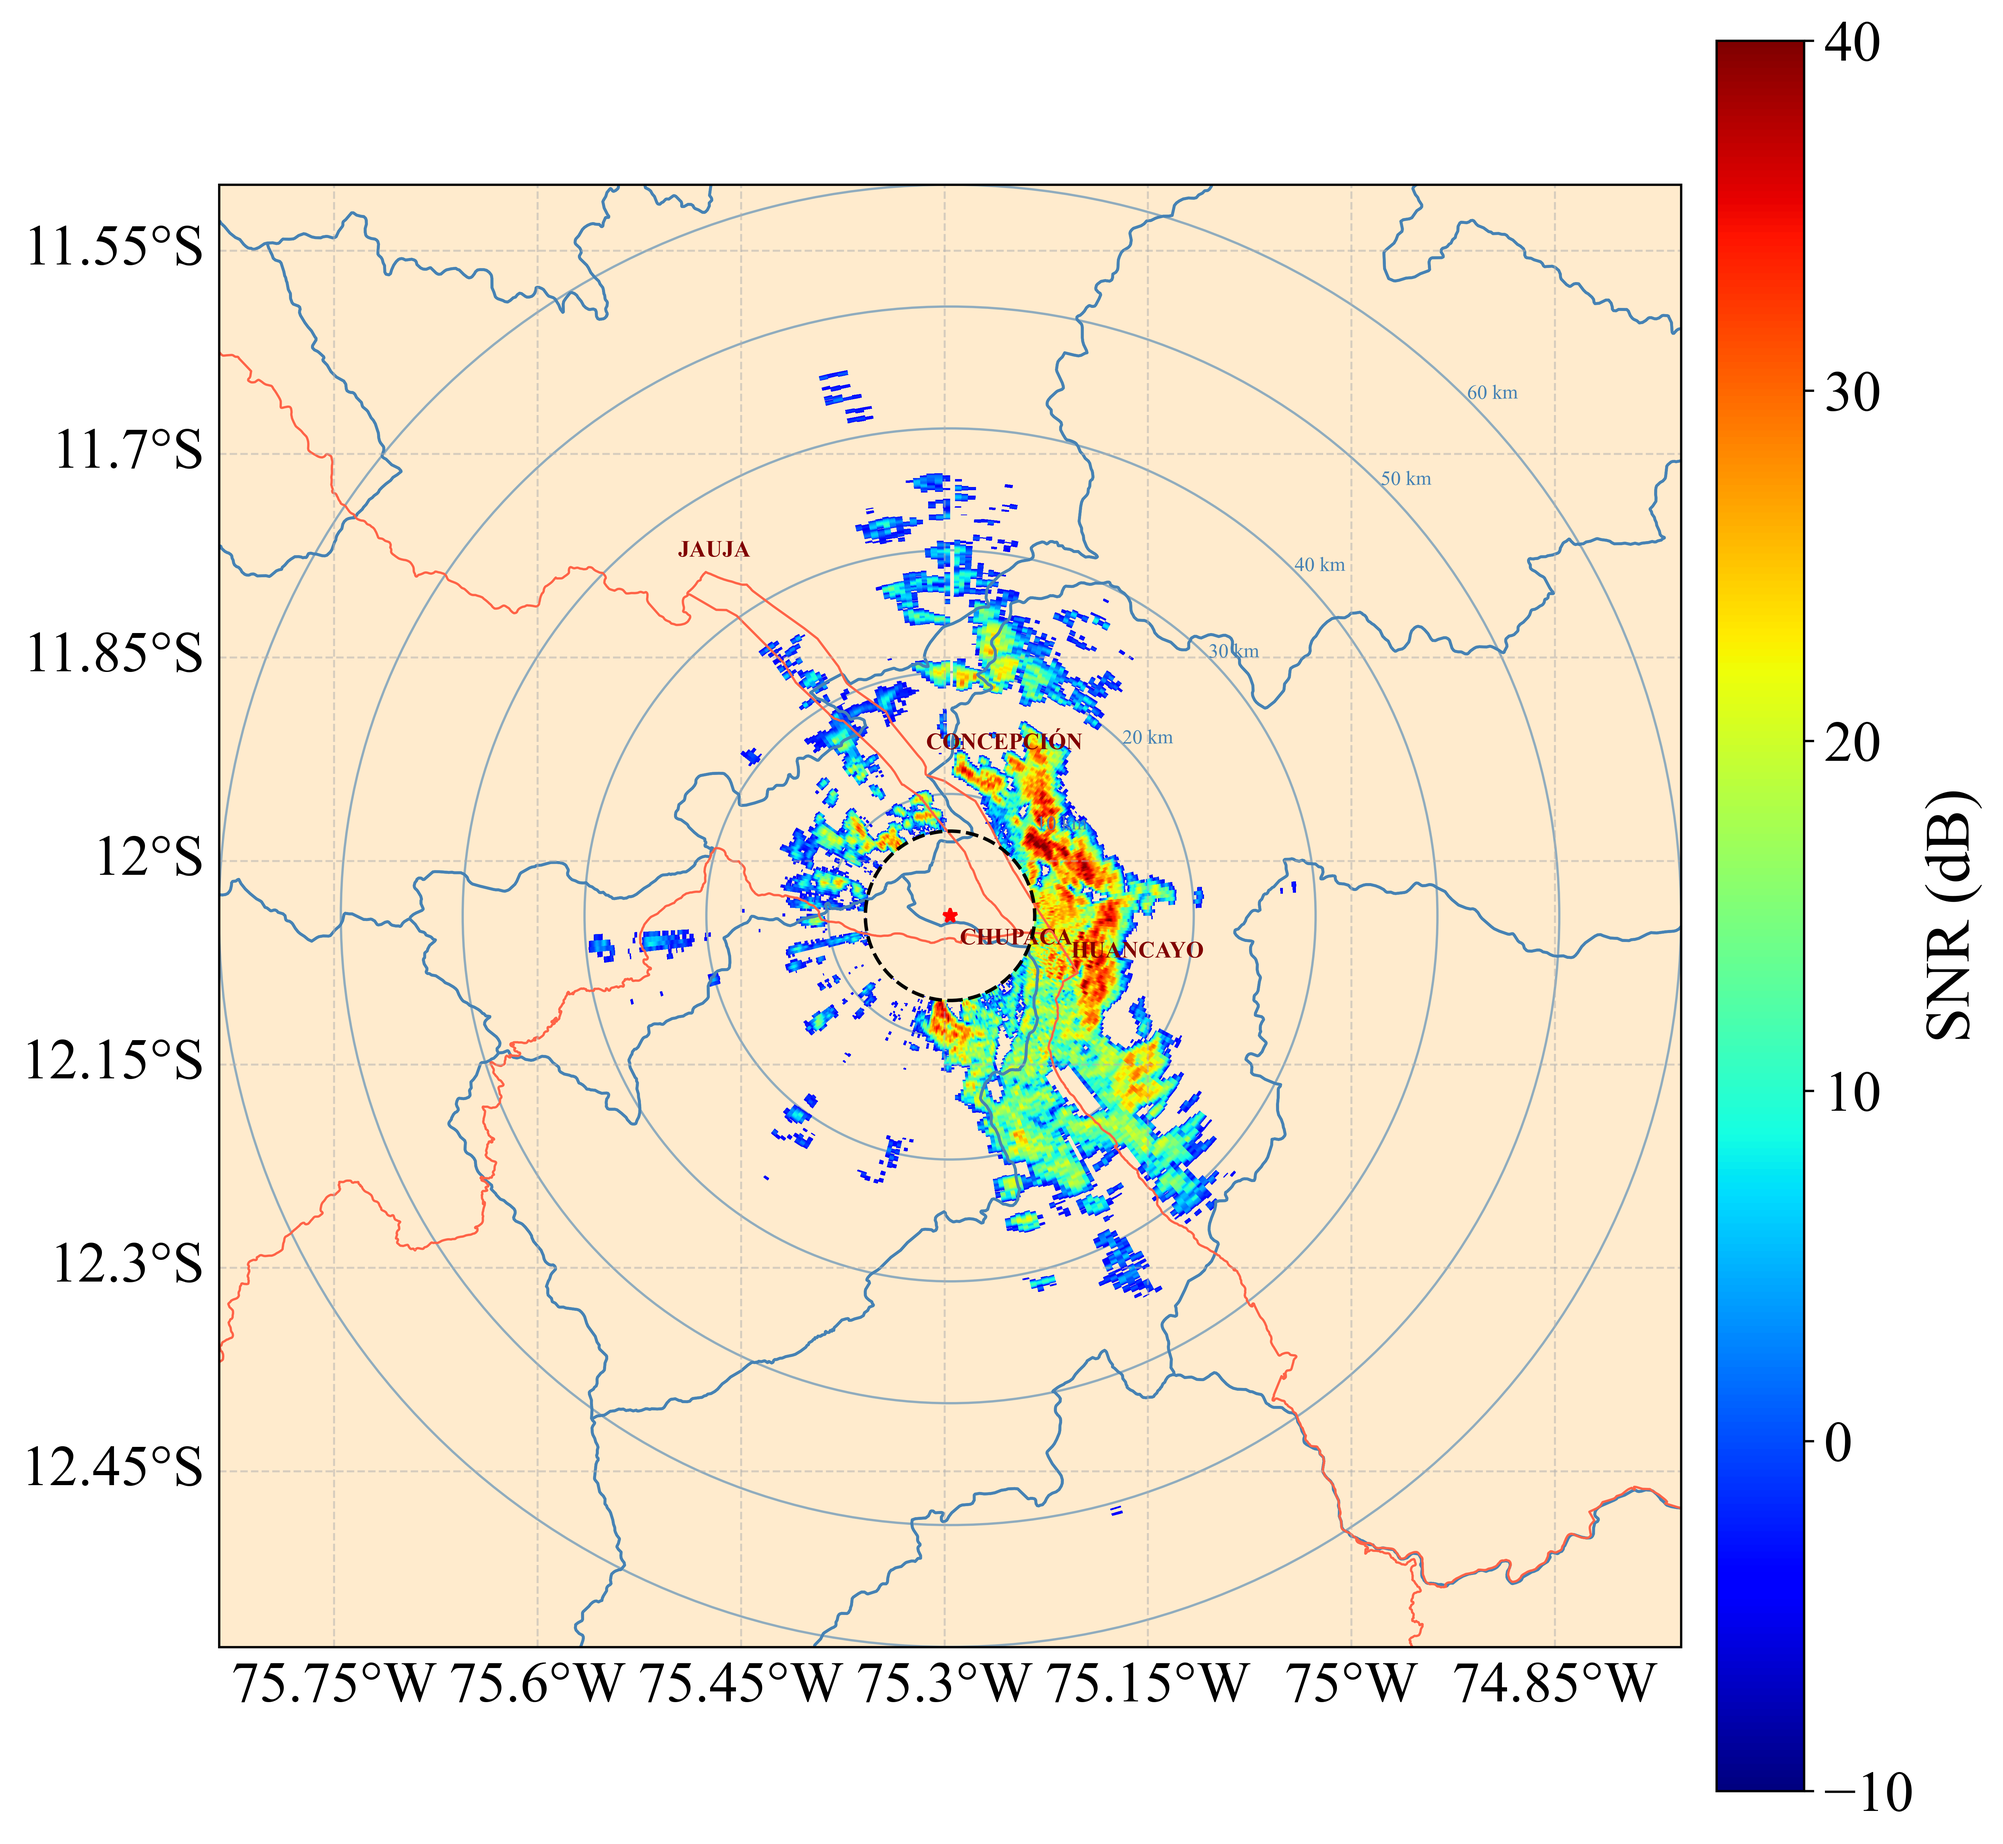
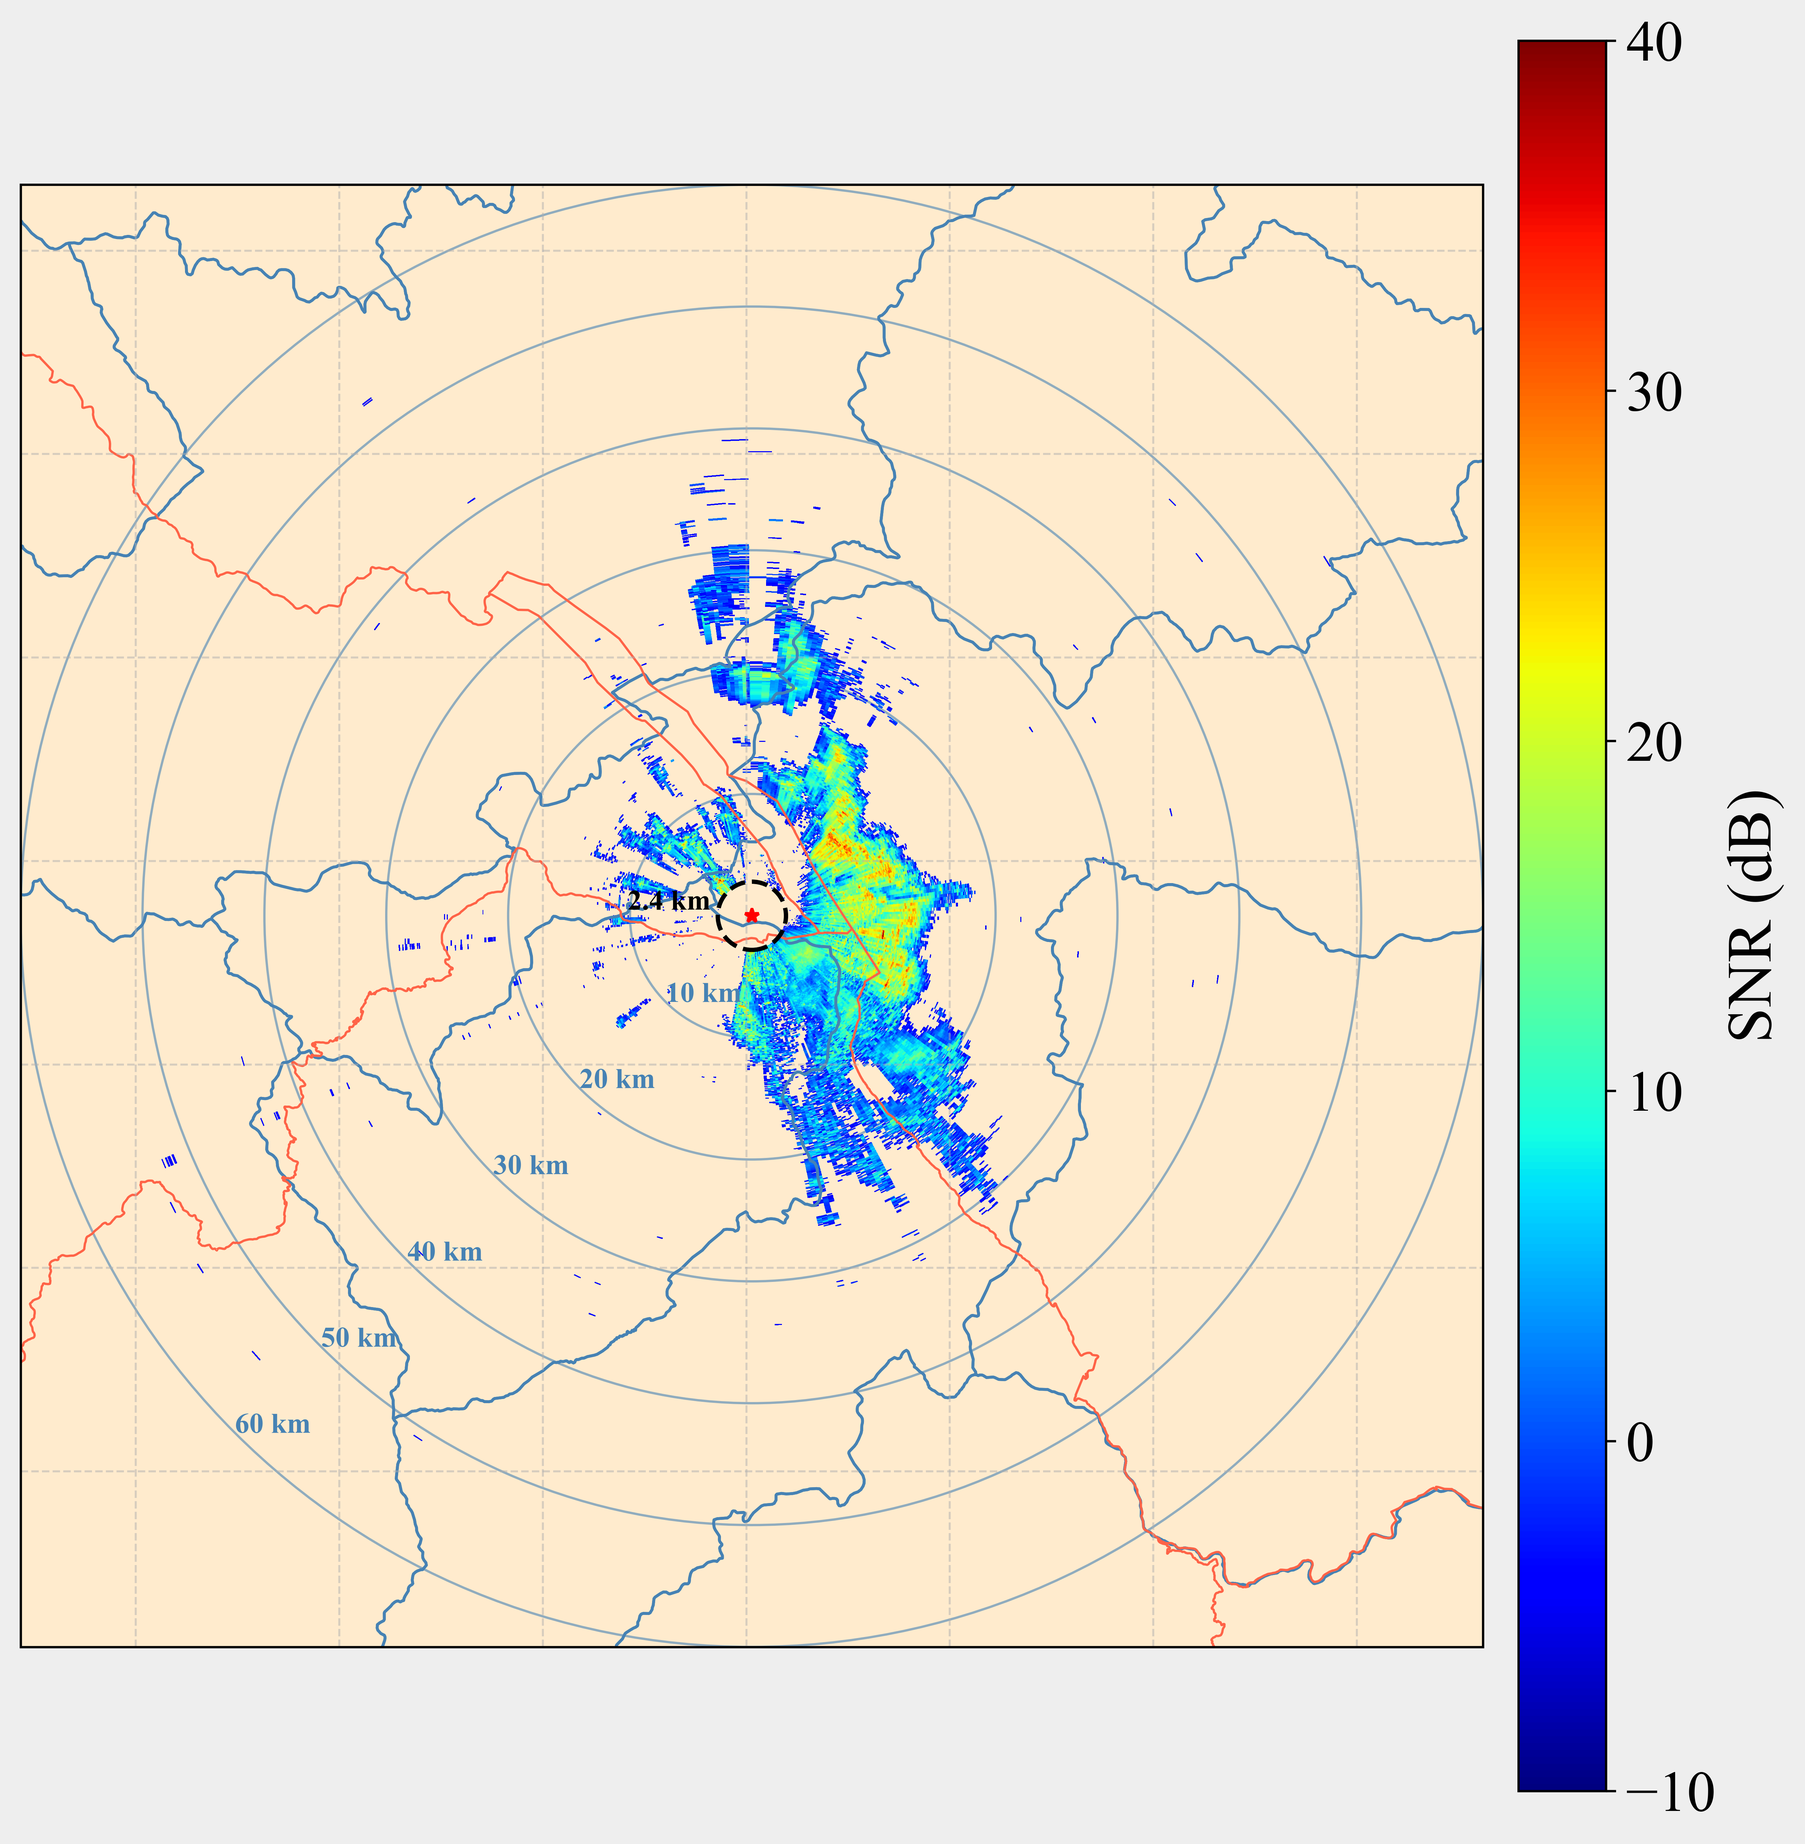
New changes in graphics for poster

diff --git a/scripts/ppi-2-v.py b/scripts/ppi-2-v.py
@@ -36,13 +36,13 @@ mpl.rcParams['font.size'] = 15
 RADAR_LAT = -12.04042
 RADAR_LON = -75.29591
 
-XRANGE = 60  # km
+XRANGE = 30  # km
 h0 = 37 # Para SNR índice para chirp 145, para cc 38
 
 SHOW_H0_CIRCLE = True 
 
-PATH = '/home/david/Documents/schain-v3.0/scripts/DATA/SOPHY_20260302_075140_E4.2_V.hdf5'
-# PATH = '/home/david/Documents/schain-v3.0/scripts/DATA/SOPHY_20250303_000413_E4.2_V.hdf5'
+# PATH = '/home/david/Documents/schain-v3.0/scripts/DATA/SOPHY_20260302_075140_E4.2_V.hdf5'
+PATH = '/home/david/Documents/schain-v3.0/scripts/DATA/SOPHY_20250303_000413_E4.2_V.hdf5'
 # PATH = "/home/david/Documents/schain-v3.0/scripts/DATA/SOPHY_20260302_005800_E4.2_V.hdf5"
 # PATH = "/home/david/Documents/DATA/CHIRP@2025-10-07T19-57-06/param-01_AUG/SNR_PPI_EL_1.0/SOPHY_20251007_200049_E1.0_SNR.hdf5"
 
@@ -109,8 +109,8 @@ lat = km2deg(y) + RADAR_LAT
 # ==========================================================
 
 fig = plt.figure(figsize=(11,11))
-#fig.patch.set_facecolor("#EEEEEE")
-fig.patch.set_facecolor("#FFFFFF")
+fig.patch.set_facecolor("#EEEEEE")
+#fig.patch.set_facecolor("#FFFFFF")
 
 ax = plt.axes(projection=ccrs.PlateCarree())
 
@@ -129,7 +129,7 @@ ax.set_extent([
 # GRID
 # ==========================================================
 
-gl = ax.gridlines(draw_labels=True,
+gl = ax.gridlines(draw_labels=False,
                   linewidth=0.7,
                   linestyle='--',
                   alpha=0.5)
@@ -228,11 +228,11 @@ reader = shpreader.Reader(
 )
 
 ciudades = (
-    "CONCEPCIÓN",
-    "HUANCAYO",
-    "JAUJA",
+    #"CONCEPCIÓN",
+    #"HUANCAYO",
+    #"JAUJA",
     #"LA OROYA",
-    "CHUPACA"
+    #"CHUPACA"
 )
 
 for rec in reader.records():
@@ -253,7 +253,8 @@ for rec in reader.records():
 # ANILLOS
 # ==========================================================
 
-for R in [10,20,30,40,50,60]:
+for R in [10,20,30]:
+# for R in [10,20,30,40,50,60]:
 
     c = Circle(
         (RADAR_LON,RADAR_LAT),
@@ -268,10 +269,11 @@ for R in [10,20,30,40,50,60]:
     ax.add_patch(c)
 
     ax.text(
-        RADAR_LON+km2deg(R/np.sqrt(2)),
-        RADAR_LAT+km2deg(R/np.sqrt(2)),
+        RADAR_LON-km2deg(R/np.sqrt(2)),
+        RADAR_LAT-km2deg(R/np.sqrt(2)),
         f"{R} km",
-        fontsize=7,
+        fontsize=17.5,
+        fontweight="bold",
         color="#4682B4"
     )
 
@@ -287,7 +289,7 @@ if SHOW_H0_CIRCLE:
         km2deg(h0_radius),
         fill=False,
         edgecolor="black",
-        linewidth=1.2,
+        linewidth=2,
         linestyle="--",      # línea punteada
         transform=ccrs.PlateCarree(),
         zorder=20
@@ -317,8 +319,8 @@ ax.plot(
 # ESCALA DE REFLECTIVIDAD (dBZ)
 # ==========================================================
 # pasos
-levels = np.arange(-20, 21, 2.5)
-#levels = np.arange(-10, 12, 2)
+# levels = np.arange(-20, 21, 2.5)
+levels = np.arange(-10, 12, 2)
 
 colors = [
     "#003300", "#005500", "#007700", "#009900", "#00bb00", "#24ce24", "#6cd26c", "#b4d6b4",
@@ -376,8 +378,8 @@ cbar = plt.colorbar(
     pcm,
     pad=0.02,
     # pasos en los labels del grafico  de barras
-    ticks=np.arange(-20, 21, 10)
-    #ticks=np.arange(-10, 11, 2)
+    # ticks=np.arange(-20, 21, 10)
+    ticks=np.arange(-10, 11, 2)
 )
 
 '''cbar = plt.colorbar(

diff --git a/scripts/ppi-2-snr.py b/scripts/ppi-2-snr.py
@@ -35,14 +35,14 @@ RADAR_LAT = -12.04042
 RADAR_LON = -75.29591
 
 XRANGE = 60       # km
-h0 = 145  # índice PARA CHIRP 145, 38 para CC
+h0 = 38  # índice PARA CHIRP 145, 38 para CC
 
 
 
 SHOW_H0_CIRCLE = True 
 
-# PATH = "/home/david/Documents/DATA/SOPHy/HYO@2025-11-11T00-00-34/param-01_AUG/SNR_PPI_EL_1.0/SOPHY_20251031_000826_E1.0_SNR.hdf5"
-PATH = "/home/david/Documents/DATA/SOPHy/CHIRP@2025-10-07T19-57-06/param-01_AUG/SNR_PPI_EL_1.0/SOPHY_20251007_200049_E1.0_SNR.hdf5"
+PATH = "/home/david/Documents/DATA/SOPHy/HYO@2025-11-11T00-00-34/param-01_AUG/SNR_PPI_EL_1.0/SOPHY_20251031_000826_E1.0_SNR.hdf5"
+# PATH = "/home/david/Documents/DATA/SOPHy/CHIRP@2025-10-07T19-57-06/param-01_AUG/SNR_PPI_EL_1.0/SOPHY_20251007_200049_E1.0_SNR.hdf5"
 
 SHAPES = "/home/david/Documents/schain-v3.0/scripts/shapes"
 
@@ -112,8 +112,8 @@ lat = km2deg(y) + RADAR_LAT
 # ==========================================================
 
 fig = plt.figure(figsize=(11,11))
-fig.patch.set_facecolor("#FFFFFF")
-#fig.patch.set_facecolor("#EEEEEE")
+# fig.patch.set_facecolor("#FFFFFF")
+fig.patch.set_facecolor("#EEEEEE")
 
 
 ax = plt.axes(projection=ccrs.PlateCarree())
@@ -133,7 +133,7 @@ ax.set_extent([
 # GRID
 # ==========================================================
 
-gl = ax.gridlines(draw_labels=True,
+gl = ax.gridlines(draw_labels=False,
                   linewidth=0.7,
                   linestyle='--',
                   alpha=0.5)
@@ -231,11 +231,11 @@ reader = shpreader.Reader(
 )
 
 ciudades = (
-    "CONCEPCIÓN",
-    "HUANCAYO",
-    "JAUJA",
+    #"CONCEPCIÓN",
+    #"HUANCAYO",
+    #"JAUJA",
     #"LA OROYA",
-    "CHUPACA"
+    #"CHUPACA"
 )
 
 for rec in reader.records():
@@ -271,10 +271,11 @@ for R in [10,20,30,40,50,60]:
     ax.add_patch(c)
 
     ax.text(
-        RADAR_LON+km2deg(R/np.sqrt(2)),
-        RADAR_LAT+km2deg(R/np.sqrt(2)),
+        RADAR_LON-km2deg(R/np.sqrt(2)),
+        RADAR_LAT-km2deg(R/np.sqrt(2)),
         f"{R} km",
-        fontsize=7,
+        fontsize=10,
+        fontweight="bold",
         color="#4682B4"
     )
 
@@ -290,13 +291,27 @@ if SHOW_H0_CIRCLE:
         km2deg(h0_radius),
         fill=False,
         edgecolor="black",
-        linewidth=1.2,
+        linewidth=1.5,
         linestyle="--",      # línea punteada
         transform=ccrs.PlateCarree(),
         zorder=20
     )
 
     ax.add_patch(c)
+
+    # Label del círculo
+    ax.text(
+        RADAR_LON - km2deg(h0_radius+4),
+        RADAR_LAT,
+        "2.4 km",
+        transform=ccrs.PlateCarree(),
+        ha="center",
+        va="bottom",
+        fontsize=10,
+        color="black",
+        fontweight="bold",
+        zorder=21
+    )
 
 
 # ==========================================================

diff --git a/scripts/ppi-2-z.py b/scripts/ppi-2-z.py
@@ -36,8 +36,9 @@ mpl.rcParams['font.size'] = 15
 RADAR_LAT = -12.04042
 RADAR_LON = -75.29591
 
-XRANGE = 60  # km
-h0 = 105 # Para SNR índice para chirp 145, para cc 38
+XRANGE = 30  # km
+h0 = 106 # Para SNR índice para chirp 145, para cc 38
+
 
 SHOW_H0_CIRCLE = True 
 
@@ -67,9 +68,9 @@ with h5py.File(PATH,"r") as f:
     az = f["Metadata/azimuth"][:]
     ele = f["Metadata/elevation"][:]
     r = f["Metadata/range"][:]
-
+    h0___=37
     # Eliminar todo lo que esté antes de ese radio
-    # H[:, :h0] = np.nan
+    H[:, :h0___] = np.nan
 
     # Aumentar 5 dB solamente donde no hay NaN
     # H[~np.isnan(H)] += 4.7
@@ -127,7 +128,7 @@ ax.set_extent([
 # GRID
 # ==========================================================
 
-gl = ax.gridlines(draw_labels=True,
+gl = ax.gridlines(draw_labels=False,
                   linewidth=0.7,
                   linestyle='--',
                   alpha=0.5)
@@ -225,11 +226,11 @@ reader = shpreader.Reader(
 )
 
 ciudades = (
-    "CONCEPCIÓN",
-    "HUANCAYO",
-    "JAUJA",
+    #"CONCEPCIÓN",
+    #"HUANCAYO",
+    #"JAUJA",
     #"LA OROYA",
-    "CHUPACA"
+    #"CHUPACA"
 )
 
 for rec in reader.records():
@@ -250,7 +251,8 @@ for rec in reader.records():
 # ANILLOS
 # ==========================================================
 
-for R in [10,20,30,40,50,60]:
+#for R in [10,20,30,40,50,60]:
+for R in [10,20,30]:
 
     c = Circle(
         (RADAR_LON,RADAR_LAT),
@@ -264,11 +266,14 @@ for R in [10,20,30,40,50,60]:
 
     ax.add_patch(c)
 
+
+    offset = 1.5
     ax.text(
-        RADAR_LON+km2deg(R/np.sqrt(2)),
-        RADAR_LAT+km2deg(R/np.sqrt(2)),
+        RADAR_LON-km2deg(R/np.sqrt(2)),
+        RADAR_LAT-km2deg(R/np.sqrt(2)),
         f"{R} km",
-        fontsize=7,
+        fontsize=17.5,
+        fontweight="bold",
         color="#4682B4"
     )
 
@@ -284,13 +289,27 @@ if SHOW_H0_CIRCLE:
         km2deg(h0_radius),
         fill=False,
         edgecolor="black",
-        linewidth=1.2,
+        linewidth=1.75,
         linestyle="--",      # línea punteada
         transform=ccrs.PlateCarree(),
         zorder=20
     )
 
     ax.add_patch(c)
+
+    # Label del círculo
+    ax.text(
+        RADAR_LON - km2deg(h0_radius+3.3),
+        RADAR_LAT,
+        "7.2 km",
+        transform=ccrs.PlateCarree(),
+        ha="center",
+        va="bottom",
+        fontsize=17.5,
+        color="black",
+        fontweight="bold",
+        zorder=21
+    )
 
 
 # ==========================================================
